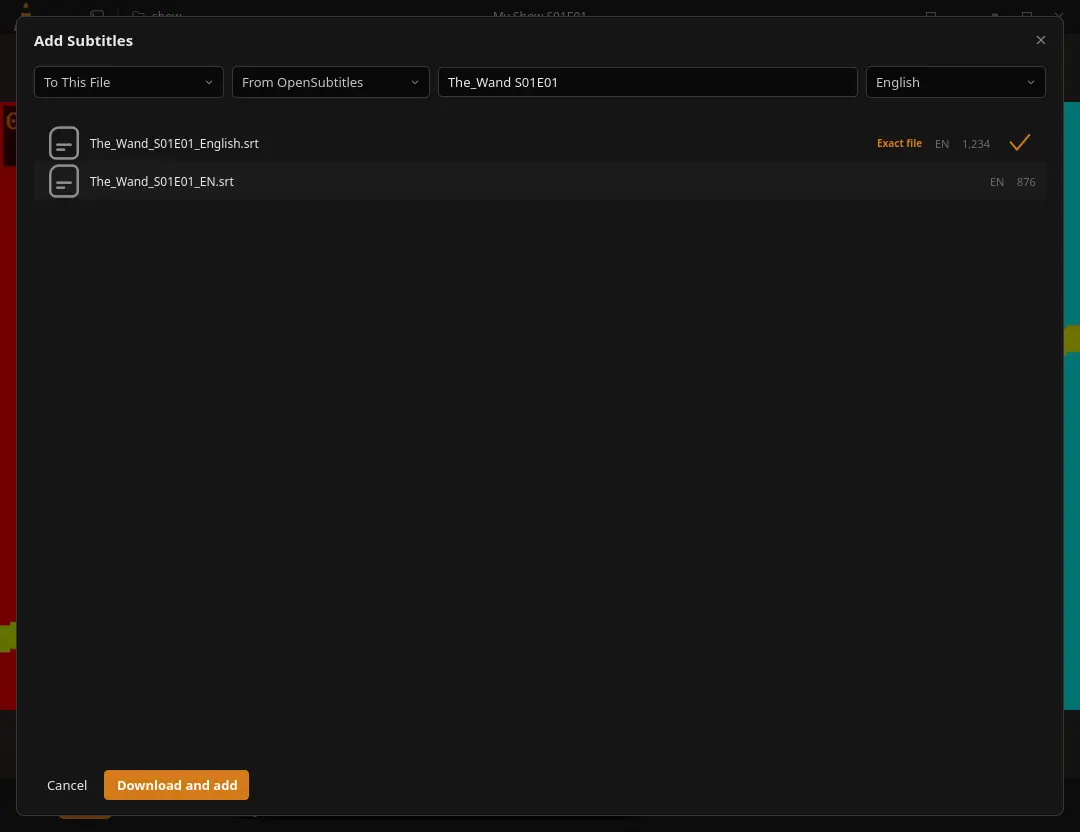
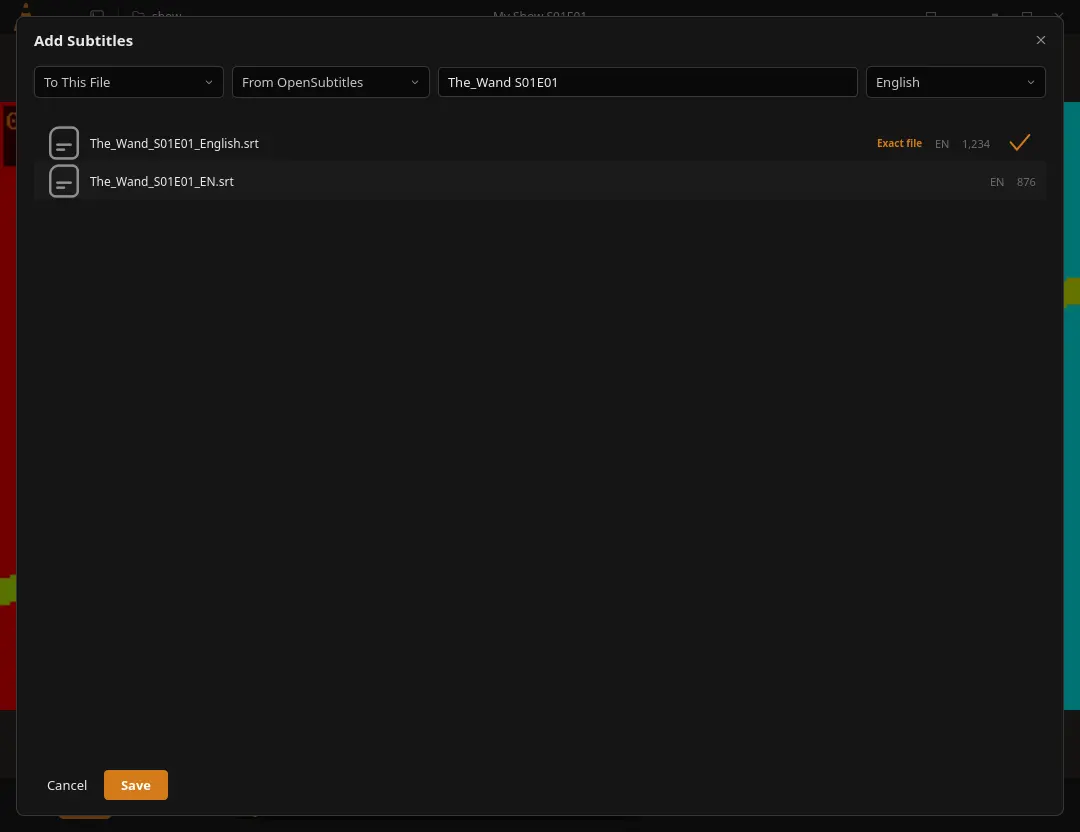
Match subtitle action label to Figma

Changed region(s): [[0.0917, 0.9062, 0.2444, 0.9688], [0.9778, 0.3125, 1.0, 0.4375], [0.0, 0.6875, 0.0306, 0.7812]]

diff --git a/qml/SubtitleDialog.qml b/qml/SubtitleDialog.qml
@@ -20,6 +20,7 @@ Modal {
     property string onlineApplyError: ""
     property alias resultList: matchList
     property alias onlineSourceSelector: sourceModeCombo
+    property alias actionButton: saveActionButton
     property var matches: []
     property var candidateFiles: []
     property var selectedSubtitlePaths: []
@@ -379,9 +380,9 @@ Modal {
     footer: RowLayout {
         NButton { text: "Cancel"; flat: true; onClicked: root.close() }
         NButton {
-            text: root.sourceMode === "opensubtitles"
-                  ? openSubtitles.downloading ? "Downloading…" : "Download and add"
-                  : "Save"
+            id: saveActionButton
+            text: root.sourceMode === "opensubtitles" && openSubtitles.downloading
+                  ? "Downloading…" : "Save"
             primary: true
             enabledState: root.sourceMode === "opensubtitles"
                           ? root.selectedOnlineFileId > 0 && !openSubtitles.downloading

diff --git a/docs/figma-parity.md b/docs/figma-parity.md
@@ -15,7 +15,7 @@ The **11 implemented / 14 partial / 0 not started** count describes Figma screen
 
 Focused Figma follow-up (2026-10-29): the wide folder toolbar search field was 190 px while the Player grid reference at node `970:2703` measures 324 px. The wide folder search now uses the 324 px reference width, the folder toolbar shows Figma's overflow menu in place of the close icon, and its right-edge actions and preceding controls use adjusted gaps. `scripts/test-library-110-items.sh` probes the search and toolbar positions and opens the six-action overflow menu. The first focused run measured `folderToolbarGeometry=1329/1398/1446/1494/1836/1868`; Arch and Mint measured the count label at x=1325 because of a 4 px font-metric difference, while all icon and search positions matched. The field starts at x=1494 and is 324 px wide. Refreshed [`folder-browser-110-grid.webp`](screenshots/folder-browser-110-grid.webp) and [`folder-browser-110-list.webp`](screenshots/folder-browser-110-list.webp) captures show the current toolbar and floating mini-player in both views; the episode posters now use the matching Figma stills. The test allows only the 1325–1329 text-label range and asserts the other toolbar coordinates and overflow-menu behavior. CI run [`40840269745`](https://github.com/alexandreolives/vlc-neo/actions/runs/40840269745) passed this toolbar assertion on both Arch and Mint; both runs decoded all 88 visible list thumbnails, and the count label measured x=1325 while the icon/search coordinates matched the target. The revised assertion accepts only the 1325–1329 font-metric range.
 
-Latest complete local verification at code commit `b878555` (Linux Mint 22.3): `cmake --build build -j2` succeeded, CTest passed **13/13**, and the complete real-VLC smoke suite passed **862/862**. This includes the Figma music skip controls, responsive Videos-pane widths, Library settings Figma-value and exact-label assertions, and the Low latency/Normal/Custom network-cache display and value-retention checks. The full smoke result is local; cross-distro CI run `40811644836` predates these UI changes. The installed plugin hash matches the build and the running VLC Neo process has the installed plugin mapped.
+Latest complete local verification (2026-10-29, Linux Mint 22.3): `cmake --build build -j2` succeeded, CTest passed **14/14**, and the complete real-VLC smoke suite passed **887/887**. This includes the Figma subtitle search row, Save action label and downloaded-track activation, along with player, preferences, side panels, libraries, network and conversion flows. The current installed plugin SHA-256 matches the build. The latest cross-distro code result remains CI `40962599159`; subsequent visual-label changes still need a cross-distro run.
 
 Focused network-profile verification at code commit `b878555`: the real-VLC offscreen run passed all four cache-profile checks (`Low latency`, `Normal`, `Custom`, and restoration of the original VLC values). The refreshed `settings-network.webp` shows blank disabled cache fields in Normal.
 
@@ -29,7 +29,7 @@ Workflow-dispatch run [`40148039254`](https://github.com/alexandreolives/vlc-neo
 
 | Phase | Verified now | Work that remains |
 |---|---|---|
-| **05 — Figma fidelity and interactions** | Latest full cross-distro code run ([CI `40962599159`](https://github.com/alexandreolives/vlc-neo/actions/runs/40962599159), code commit `3608e34`) passed the build, 14/14 CTests and 882/882 real-VLC smoke assertions on both Arch and Linux Mint, including cached OpenSubtitles result activation. Both also passed the full-recording waveform checks for jazz (205.72 s), classical (188.90 s) and electronic (80.71 s), plus the 15-item Figma light-sidebar probe with `rowGeometry=52/120` and all 15 thumbnails decoded. Both distributions passed the Home review assertions for four video cards, three music entries and four folder cards. Arch passed the build and 14/14 CTests; Mint installer/uninstaller checks preserved system Qt and the VLC desktop entry. The latest run checks the Player-Light folder pane at 377 px and first-row geometry `rowGeometry=52/120`; it also checks the compact 560×340 toolbar and search behavior. It includes subtitle Appearance-before-OpenSubtitles ordering and API-key alignment at desktop and compact sizes, the full-width playback bar beside the side pane, and the Music pane reaching 377 px after its opening animation. Earlier focused checks confirm all six mini-player controls stay attached while dragging in Home and full library, fit Home/grid/list at 560×340, and dock/restore with Queue. A fresh local run on 2026-10-29 passed 14/14 CTests and 884/884 real-VLC smoke assertions, including the current two-result OpenSubtitles dialog fixture and side-by-side filter geometry. A subsequent full local smoke run passed 886/886 after adding the OpenSubtitles download/apply track-activation check; it did not rerun CTest or replace the latest cross-distro CI evidence. The full suite exercises player, preferences, resize, hover/focus, keyboard, popups, libraries and network playback. The 206 local Figma SVGs are exact byte matches to the pinned Olmo export. | The 25 screen groups still contain 14 partial entries, principally visual closeout and environment-dependent cases. The current local build passes the Player-Light header/navigation and pin shortcut probes, and the More menu remains at Figma’s six entries (`figmaMore=true/6`); CI `40899084526` verified this correction on both distributions. The Home review uses the three episode stills and two distinct music-cover exports from its Figma frame; the 110-item grid and list now use the exact fifteen visible poster crops from Figma node `970:4028`, matched by episode filename and hash-pinned before the VLC thumbnail test. Remaining poster files cycle these fifteen images because no other poster assets appear in the reference. Attribution is in [`FIGMA-HOME-ASSETS.md`](../tests/fixtures/FIGMA-HOME-ASSETS.md). Remaining explicit items include verifying always-on-top under Hyprland. Full-length waveform appearance is now verified locally on complete CC0 jazz (205.72 s), classical (188.90 s) and electronic (80.71 s) recordings; each asynchronous waveform became ready, passed the visible-contrast check (p95 65, 65 and 82), and produced a distinct render through `scripts/test-waveform-variety.sh`. The Hisense currently advertises DIAL only and exposes no direct VLC playback endpoint; physical receiver playback and Chromecast remain unverified. The user explicitly requires the mini-player to move; Home and full-library cards implement this and the six-step drag checks verify that all six controls stay attached. A direct browser inspection of Figma component set `970:3091` confirms five visual variants: Default, Queue card (Variant2), hover controls (Variant3), Queue hover (Variant4), and end-of-media Replay (Variant5). The Prototype inspector defines no transitions between these variants, so hover/drag timing and easing are not specified. Variant5 has no outgoing prototype link, so the Replay trigger is inferred from VLC behavior. Podcast and Radio catalog browsing has no matching Figma detail states and remains absent. |
+| **05 — Figma fidelity and interactions** | Latest full cross-distro code run ([CI `40962599159`](https://github.com/alexandreolives/vlc-neo/actions/runs/40962599159), code commit `3608e34`) passed the build, 14/14 CTests and 882/882 real-VLC smoke assertions on both Arch and Linux Mint, including cached OpenSubtitles result activation. Both also passed the full-recording waveform checks for jazz (205.72 s), classical (188.90 s) and electronic (80.71 s), plus the 15-item Figma light-sidebar probe with `rowGeometry=52/120` and all 15 thumbnails decoded. Both distributions passed the Home review assertions for four video cards, three music entries and four folder cards. Arch passed the build and 14/14 CTests; Mint installer/uninstaller checks preserved system Qt and the VLC desktop entry. The latest run checks the Player-Light folder pane at 377 px and first-row geometry `rowGeometry=52/120`; it also checks the compact 560×340 toolbar and search behavior. It includes subtitle Appearance-before-OpenSubtitles ordering and API-key alignment at desktop and compact sizes, the full-width playback bar beside the side pane, and the Music pane reaching 377 px after its opening animation. Earlier focused checks confirm all six mini-player controls stay attached while dragging in Home and full library, fit Home/grid/list at 560×340, and dock/restore with Queue. A fresh local run on 2026-10-29 passed 14/14 CTests and 884/884 real-VLC smoke assertions, including the current two-result OpenSubtitles dialog fixture and side-by-side filter geometry. The latest local full smoke run passed 887/887, including cached OpenSubtitles download/apply track activation and the Figma-matched Save label; CTest passed 14/14 after the UI change. This local run does not replace cross-distro CI evidence. The full suite exercises player, preferences, resize, hover/focus, keyboard, popups, libraries and network playback. The 206 local Figma SVGs are exact byte matches to the pinned Olmo export. | The 25 screen groups still contain 14 partial entries, principally visual closeout and environment-dependent cases. The current local build passes the Player-Light header/navigation and pin shortcut probes, and the More menu remains at Figma’s six entries (`figmaMore=true/6`); CI `40899084526` verified this correction on both distributions. The Home review uses the three episode stills and two distinct music-cover exports from its Figma frame; the 110-item grid and list now use the exact fifteen visible poster crops from Figma node `970:4028`, matched by episode filename and hash-pinned before the VLC thumbnail test. Remaining poster files cycle these fifteen images because no other poster assets appear in the reference. Attribution is in [`FIGMA-HOME-ASSETS.md`](../tests/fixtures/FIGMA-HOME-ASSETS.md). Remaining explicit items include verifying always-on-top under Hyprland. Full-length waveform appearance is now verified locally on complete CC0 jazz (205.72 s), classical (188.90 s) and electronic (80.71 s) recordings; each asynchronous waveform became ready, passed the visible-contrast check (p95 65, 65 and 82), and produced a distinct render through `scripts/test-waveform-variety.sh`. The Hisense currently advertises DIAL only and exposes no direct VLC playback endpoint; physical receiver playback and Chromecast remain unverified. The user explicitly requires the mini-player to move; Home and full-library cards implement this and the six-step drag checks verify that all six controls stay attached. A direct browser inspection of Figma component set `970:3091` confirms five visual variants: Default, Queue card (Variant2), hover controls (Variant3), Queue hover (Variant4), and end-of-media Replay (Variant5). The Prototype inspector defines no transitions between these variants, so hover/drag timing and easing are not specified. Variant5 has no outgoing prototype link, so the Replay trigger is inferred from VLC behavior. Podcast and Radio catalog browsing has no matching Figma detail states and remains absent. |
 | **06 — VLC preferences — Complete** | The phase acceptance criteria pass on VLC 3.0.20. No loss found in the 47 inherited keys: a fresh comparison with `upstream/main` finds 47 original VLC keys and zero missing references. A real-VLC audit checks all 155 declared options for a matching control, compatible VLC type, effective help text and agreement between displayed and backend values; installed VLC 3.0.20 exposes all 155 and passes 155/155. Arch VLC 3.0.24 omits the optional `postproc-name` and `postproc-q` config keys; CI verifies those controls stay hidden and audits the 153 options exposed by that build. It calls VLC’s setter for every option, relaunches, and confirms both the stored value and mapped control are restored (155/155); it deliberately toggles 45 boolean options. [`test-preference-alternate-values.sh`](../scripts/test-preference-alternate-values.sh) changes all 155 options to another value accepted by the UI, confirms the control matches VLC, then confirms the changed value survives relaunch. It covers 44 booleans, 34 choices, 48 numeric values, four colors and 25 text fields. The test creates a private D-Bus session so VLC's single-instance IPC cannot redirect launches to an existing desktop process. The Simple/Advanced visibility, persistence and value-preservation checks pass. VLC omits core `verbose` from `vlcrc`; Neo stores that choice in its own settings and restores it before playback. The duplicate Developer mode row name was corrected so it no longer shadows the real `verbose` preference control. The alternate-value audit is wired into both Arch and Ubuntu package jobs; The full-branch smoke at `8b1d852` exposed cross-build assertions for optional Performance controls; commit `734139c` now tests required controls and confirms omitted options stay hidden. CI run `40035316028` passed the Arch preference audit, then failed its full smoke job; Mint also failed its full smoke job. In run `40115258817`, both package jobs passed their preference audits before failing at the 110-item geometry assertions. Current hardware inventory: one connected 1920×1080 internal display; PipeWire exposes two audio sinks. ALSA exposes the ALC256 internal analog PCM and HDMI PCM devices; the codec declares a fixed speaker and headphone controls, while the HDMI display connector is disconnected. Direct VLC ALSA output successfully opened and configured `hw:CARD=PCH,DEV=3` (HDMI 0), proving device initialization but not audible playback. The analog endpoint could be tried locally; its actual sound output has not been verified. | Latest complete cross-distro code run [`40962599159`](https://github.com/alexandreolives/vlc-neo/actions/runs/40962599159) passed 14/14 CTests and 882/882 smoke assertions on Arch and Mint, including the preference mapping and alternate-value persistence checks. The preference acceptance criteria are complete. Run [`40922747499`](https://github.com/alexandreolives/vlc-neo/actions/runs/40922747499) previously failed the full smoke step on both distributions because the preceding Global Settings scenario left `Theme.store.advancedOptions=true`; the smoke now resets Simple mode and the new cross-distro run passes.  External-display selection and audible output on the internal analog ALSA endpoint remain separate hardware checks. |
 | **07 — timeline and subtitles — Complete** | Subtitle timing and absent-subtitle states, keyboard seeking, asynchronous thumbnails/waveforms, bounded decode/cache behavior and a one-hour audio file are exercised. Waveform decoding now scales its deadline from 20 seconds to at most ten minutes based on media duration; a real-VLC run confirms the one-hour fixture finishes and CTest covers the timeout bounds. `bounded_image_cache_test` verifies the 16 MiB image-cache cost ceiling and confirms that the least-recently-used frame is evicted while the newest remains available. An 80-request overload test confirms 64 complete, 16 reject cleanly, and a later request recovers. Cancellation tokens now propagate into both video-frame and waveform VLC processes, which are killed when their image requests are abandoned. The smoke suite swaps an in-flight long waveform on both workers for short waveform requests and confirms both replacements finish. It verifies that the video request is still loading when it is replaced, then checks that `t=0` returns the red frame and `t=4` the blue frame. [`test-waveform-variety.sh`](../scripts/test-waveform-variety.sh) opens complete CC0 jazz (205.72 s), classical (188.90 s) and electronic (80.71 s) recordings in VLC Neo, waits for each asynchronous waveform, checks visible contrast and confirms three distinct renders. The local run and Arch CI step pass; source recordings and licenses are documented in [`WAVEFORM-LICENSES.md`](../tests/fixtures/WAVEFORM-LICENSES.md). | Latest cross-distro code run [`40962599159`](https://github.com/alexandreolives/vlc-neo/actions/runs/40962599159) passed the full smoke suite (882/882), 14 CTests and full-length waveform checks on Arch and Mint. The timeline/subtitle acceptance criteria are complete, including absent-subtitle behavior, exact seeking, asynchronous decode, cancellation and bounded caches. |
 | **08 — media library — Complete** | Async indexing, tags/art, album/artist/genre search, persistence, folder removal, cache cleanup, query failure/recovery and a 50,000-row search are covered. The scale probe confirms that a superseded search leaves the exact final result: CI run [`40867519168`](https://github.com/alexandreolives/vlc-neo/actions/runs/40867519168) returned one matching row in 108 ms on Arch and 120 ms on Mint, with search setters of 0 ms and 1 ms respectively; both report the replacement search superseding an in-flight query. Figma node `970:3308` shows a folder with 110 `The_Wand_S01E*.mp4` items. [`test-library-110-items.sh`](../scripts/test-library-110-items.sh) creates 110 lightweight episode-name hard links, indexes all 110 asynchronously, confirms the video query returns 110 rows, checks grid/list modes and an exact filename search, and captures both modes. It asserts at least 12 of the first 15 thumbnails become ready within six seconds in both grid and compact-list modes, and that all 88 thumbnail-bearing cells in the compact-list viewport finish within twenty-four seconds. The latest focused run observed 15/15 initial-viewport thumbnails ready after six seconds in both grid and list, then 88/88 list thumbnails ready after twenty-four seconds, while preserving the two-worker bound; the 110-item threshold probe passed on both Arch and Mint in CI run [`40867519168`](https://github.com/alexandreolives/vlc-neo/actions/runs/40867519168), with 15/15 thumbnails ready in each view and 88/88 visible list thumbnails decoded. Thumbnails ask VLC for the first frame using scene ratio 1 and a 200 ms stop window. A like-for-like 320×180/12 fps VLC benchmark fell from 2.16 s and 60,252 KiB peak RSS to 0.34 s and 57,880 KiB; output fell from two scene images to four. A direct `browser` comparison with node `970:3792` corrected the full-library list mini-player placement: it sits at (6,735), 391×339, aligned to the window's lower-left edge and layered above the navigation rail; grid mode remains lower-right. The 2026-10-25 focused run indexes all 110 items, renders 15/15 initial thumbnails and 88/88 visible list thumbnails, and measures `geometry=135/237/140/32/32/6/735/391/339/true` (the final value asserts it is parented to the window and above the rail). The repeated color-bar frames verify thumbnail plumbing only; they do not match the Figma episode artwork. | The phase's functional acceptance criteria are complete: local artwork is read from media tags or folder covers, and indexing/search, persistence, folder removal and cache cleanup are covered. The Home and library review fixtures now use the corresponding embedded Figma poster stills; the synthetic test videos are generated from those images because the design contains no source video. Their Figma Community attribution is recorded in [`FIGMA-HOME-ASSETS.md`](../tests/fixtures/FIGMA-HOME-ASSETS.md). |
@@ -37,7 +37,7 @@ Workflow-dispatch run [`40148039254`](https://github.com/alexandreolives/vlc-neo
 
 ## Remaining work register (2026-10-29)
 
-The latest successful full cross-distro code run is CI [`40962599159`](https://github.com/alexandreolives/vlc-neo/actions/runs/40962599159), code commit `3608e34`: Arch and Linux Mint each passed 14/14 CTests and 882/882 real-VLC smoke assertions, including the cached OpenSubtitles download-and-activate scenario. Since code commit `38e784f`, this branch includes the live folder-recursion preference fix (`7b65c31`) and the Figma-aligned OpenSubtitles results dialog (`7b94eed`), followed by documentation and focused smoke-test updates. The latest local CTest run is 14/14; the latest local full smoke run is 886/886, including cached OpenSubtitles download/apply track activation, and the focused debounce probe also passes. The latest completed cross-distro CI run is `40962599159` with 882/882 checks on Arch and Mint; docs-only run `40964838724` is still in progress. Overall phase status is **3/5 complete**, **2/5 in progress** (05 and 09), **0/5 unstarted**. The Figma inventory has **11/25 groups implemented and 14/25 partial**. Its **23/57 implemented and 34/57 partial** frame counts inherit each group’s coarse status; 34 is not a count of 34 independent defects.
+The latest successful full cross-distro code run is CI [`40962599159`](https://github.com/alexandreolives/vlc-neo/actions/runs/40962599159), code commit `3608e34`: Arch and Linux Mint each passed 14/14 CTests and 882/882 real-VLC smoke assertions, including the cached OpenSubtitles download-and-activate scenario. Since code commit `38e784f`, this branch includes the live folder-recursion preference fix (`7b65c31`) and the Figma-aligned OpenSubtitles results dialog (`7b94eed`), followed by documentation and focused smoke-test updates. The latest local CTest run is 14/14; the latest local full smoke run is 887/887, including cached OpenSubtitles download/apply track activation and the Figma Save-label assertion, and the focused debounce probe also passes. The latest completed cross-distro CI run is `40962599159` with 882/882 checks on Arch and Mint; docs-only run `40964838724` is still in progress. Overall phase status is **3/5 complete**, **2/5 in progress** (05 and 09), **0/5 unstarted**. The Figma inventory has **11/25 groups implemented and 14/25 partial**. Its **23/57 implemented and 34/57 partial** frame counts inherit each group’s coarse status; 34 is not a count of 34 independent defects.
 
 | Area | What remains | What closes it |
 |---|---|---|
@@ -313,3 +313,6 @@ VLC effect probe stability follow-up (2026-10-29): run [`40932015177`](https://g
 Player-Light video-frame capture follow-up (2026-10-29): a fresh comparison found the checked-in sidebar screenshot had a black video surface even though its E04 fixture contains the Figma cat image. The existing offscreen probe asserted thumbnail decoding but not the main `VideoOutput`. It now asserts `videoFrame=true/320x180`; the focused real-VLC run passes, and a new 1920×1080 capture visibly renders the same cat frame as Figma in the player area. `docs/screenshots/player-light-sidebar.webp` is refreshed from that run.
 
 OpenSubtitles search-dialog follow-up (2026-10-29): Figma node `1919:9278` places target, source, search and language controls on one row, and shows two results with the exact-file match selected. `SubtitleDialog.qml` now uses that one-row layout, labels the source “From OpenSubtitles”, searches after a 500 ms pause while typing, searches immediately on Enter, and searches when language changes; the explicit Search button is removed. The smoke fixture returns the two Figma filenames, checks selection and shared-row geometry, and refreshes [`opensubtitles-results.webp`](screenshots/opensubtitles-results.webp). The full local validation passed 14/14 CTests and 884/884 real-VLC smoke checks; a subsequent focused real-VLC probe changed the query twice within 200 ms and confirmed that only the final query was sent once and returned both results. The built plugin was installed into the user VLC plugin directory and the default VLC Neo launcher was opened; the running process maps the installed plugin, whose SHA-256 matches the build. Live download and activation of a subtitle track remain unverified.
+
+
+OpenSubtitles action-label alignment (2026-10-29): the authenticated `browser` reference at Figma node `1919:9278` shows the primary action as **Save**. The online-result branch had said “Download and add”; it now uses the Figma label while retaining its download-and-activate behavior. The OpenSubtitles real-VLC smoke asserts the label, selects the exact-file result, downloads its cached SRT, confirms VLC selects the subtitle track, and closes the dialog. The updated [`opensubtitles-results.webp`](screenshots/opensubtitles-results.webp) shows the Figma label. Local verification: build succeeded, CTest 14/14, full real-VLC smoke 887/887. Cross-distro confirmation is pending.
